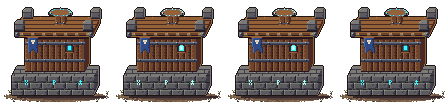
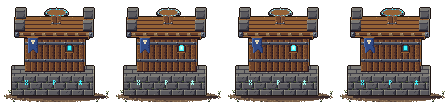
Revisão besta-r3: 1 correção
- #1 ângulo estranho: câmera 3/4 frontal pura (sem obliquidade), sombra nas últimas colunas,
  ameia com topo reto, suporte e arma centralizados; R3 e sprites da Besta nova regerados

diff --git a/tools/pixel-art/escolha-torres.html b/tools/pixel-art/escolha-torres.html
@@ -176,7 +176,7 @@ Para testar no jogo: <code>TOWER_VARIANT</code> em <code>src/config/art.js</code
           </div>
         </div>
 </div>
-<script>const DATA = {"towers":{"besta-a0":{"kind":"besta","name":"Torre de vigia (T19, antes)","base":{"src":"torres/besta-a-antes-base.png","w":80,"h":74,"px":40,"py":74,"frames":1,"fps":6},"piece":{"src":"torres/besta-a-antes-cabeca.png","w":66,"h":66,"px":33,"py":33,"phases":1},"mount":{"x":0,"y":-64},"muzzle":{"x":28,"y":0},"crystal":{"x":-7,"y":0},"shadow":[72,22],"float":0,"rest":-0.35,"windup":-0.85,"throwA":1.05,"crop":{"x":95,"y":46,"w":110,"h":108}},"besta-a-t22":{"kind":"besta","name":"Torre de vigia","base":{"src":"../../public/assets/torre-besta-a-base.png","w":100,"h":98,"px":50,"py":92,"frames":4,"fps":6},"piece":{"src":"../../public/assets/torre-besta-a-cabeca.png","w":84,"h":84,"px":42,"py":42,"phases":3},"mount":{"x":0,"y":-64},"muzzle":{"x":36,"y":0},"crystal":{"x":-10,"y":0},"shadow":[60,16],"float":0,"rest":-0.35,"windup":-0.85,"throwA":1.05,"crop":{"x":95,"y":42,"w":110,"h":112}},"besta-n-t22":{"kind":"besta","name":"Torre de vigia — nova técnica","base":{"src":"../../public/assets/torre-besta-n-base.png","w":112,"h":104,"px":56,"py":96,"frames":4,"fps":5},"piece":{"src":"../../public/assets/torre-besta-n-cabeca.png","w":72,"h":72,"px":36,"py":36,"phases":3},"mount":{"x":4,"y":-86},"muzzle":{"x":31,"y":0},"crystal":{"x":-9,"y":0},"shadow":[60,16],"float":0,"rest":-0.35,"windup":-0.85,"throwA":1.05,"crop":{"x":95,"y":24,"w":110,"h":130}},"besta-a":{"kind":"besta","name":"Torre de vigia","base":{"src":"../../public/assets/torre-besta-a-base.png","w":100,"h":98,"px":50,"py":92,"frames":4,"fps":6},"piece":{"src":"../../public/assets/torre-besta-a-cabeca.png","w":84,"h":84,"px":42,"py":42,"phases":3},"mount":{"x":0,"y":-64},"muzzle":{"x":36,"y":0},"crystal":{"x":-10,"y":0},"shadow":[60,16],"float":0,"rest":-0.35,"windup":-0.85,"throwA":1.05,"crop":{"x":95,"y":42,"w":110,"h":112}},"besta-b":{"kind":"besta","name":"Pedestal rúnico","base":{"src":"../../public/assets/torre-besta-b-base.png","w":76,"h":70,"px":38,"py":70,"frames":1,"fps":6},"piece":{"src":"../../public/assets/torre-besta-b-cabeca.png","w":66,"h":66,"px":33,"py":33,"phases":1},"mount":{"x":0,"y":-60},"muzzle":{"x":27,"y":0},"crystal":{"x":-2,"y":-8},"shadow":[64,20],"float":1,"rest":-0.35,"windup":-0.85,"throwA":1.05,"crop":{"x":95,"y":50,"w":110,"h":104}},"besta-c":{"kind":"besta","name":"Sentinela de aço","base":{"src":"../../public/assets/torre-besta-c-base.png","w":78,"h":58,"px":39,"py":58,"frames":1,"fps":6},"piece":{"src":"../../public/assets/torre-besta-c-cabeca.png","w":66,"h":66,"px":33,"py":33,"phases":1},"mount":{"x":0,"y":-48},"muzzle":{"x":29,"y":0},"crystal":{"x":-9,"y":-4},"shadow":[74,22],"float":0,"rest":-0.35,"windup":-0.85,"throwA":1.05,"crop":{"x":95,"y":62,"w":110,"h":92}},"besta-n":{"kind":"besta","name":"Torre de vigia — nova técnica","base":{"src":"../../public/assets/torre-besta-n-base.png","w":112,"h":104,"px":56,"py":96,"frames":4,"fps":5},"piece":{"src":"../../public/assets/torre-besta-n-cabeca.png","w":72,"h":72,"px":36,"py":36,"phases":3},"mount":{"x":4,"y":-86},"muzzle":{"x":31,"y":0},"crystal":{"x":-9,"y":0},"shadow":[60,16],"float":0,"rest":-0.35,"windup":-0.85,"throwA":1.05,"crop":{"x":95,"y":24,"w":110,"h":130}},"catapulta-a":{"kind":"catapulta","name":"Catapulta de rodas","base":{"src":"../../public/assets/torre-catapulta-a-base.png","w":96,"h":58,"px":48,"py":58,"frames":1,"fps":6},"piece":{"src":"../../public/assets/torre-catapulta-a-braco.png","w":140,"h":140,"px":70,"py":70,"phases":1},"mount":{"x":2,"y":-40},"cup":{"x":0,"y":-56},"orb":{"x":0,"y":-61},"shadow":[92,26],"float":0,"rest":-0.35,"windup":-0.85,"throwA":1.05,"crop":{"x":75,"y":33,"w":150,"h":121}},"catapulta-b":{"kind":"catapulta","name":"Trabuco rúnico","base":{"src":"../../public/assets/torre-catapulta-b-base.png","w":90,"h":82,"px":45,"py":82,"frames":1,"fps":6},"piece":{"src":"../../public/assets/torre-catapulta-b-braco.png","w":150,"h":150,"px":75,"py":75,"phases":1},"mount":{"x":0,"y":-66},"cup":{"x":0,"y":-64},"orb":{"x":0,"y":-69},"shadow":[84,24],"float":0,"rest":-0.35,"windup":-0.85,"throwA":1.05,"crop":{"x":75,"y":0,"w":150,"h":154}},"catapulta-c":{"kind":"catapulta","name":"Morteiro-forja","base":{"src":"../../public/assets/torre-catapulta-c-base.png","w":94,"h":60,"px":47,"py":60,"frames":1,"fps":6},"piece":{"src":"../../public/assets/torre-catapulta-c-braco.png","w":124,"h":124,"px":62,"py":62,"phases":1},"mount":{"x":-6,"y":-40},"cup":{"x":0,"y":-48},"orb":{"x":0,"y":-53},"shadow":[90,26],"float":0,"rest":-0.35,"windup":-0.85,"throwA":1.05,"crop":{"x":75,"y":40,"w":150,"h":114}}},"headAngles":[-1.5707963267948966,-1.3089969389957472,-1.0471975511965976,-0.7853981633974483,-0.5235987755982988,-0.2617993877991494,0,0.2617993877991494,0.5235987755982988,0.7853981633974483,1.0471975511965976,1.3089969389957472,1.5707963267948966],"armAngles":[-0.8726646259971648,-0.6981317007977318,-0.5235987755982988,-0.3490658503988659,-0.17453292519943295,0,0.17453292519943295,0.3490658503988659,0.5235987755982988,0.6981317007977318,0.8726646259971648,1.0471975511965976],"buildFx":{"runes":[0,0.28],"base":[0.22,0.61],"snap":[0.56,0.89],"finale":[0.89,1],"color":4191743,"hologramAlpha":0.6,"runeRadius":64,"runeFlatten":0.42,"runeSpin":3.2,"light":{"radius":170,"intensity":1.6},"scanLag":18,"scanWidth":1.15,"snapLift":26,"squash":0.06,"sparks":8,"flashSize":120},"scene":{"w":300,"h":230,"crop":{"x":330,"y":390},"pathY":170,"orcSpeed":62,"tower":{"x":150,"y":142},"orcIdle":{"x":238},"ground":"../../public/assets/chao-map01.png","orc":{"walk":"../../public/assets/orc-b-walk.png","idle":"../../public/assets/orc-b.png","w":102,"h":83,"px":46,"py":83,"shadow":[42,11]},"decor":[{"file":"decor-a-arvore3.png","x":34,"y":154,"w":80,"h":92,"px":40,"py":92,"shadow":[48,16],"src":"../../public/assets/decor-a-arvore3.png"},{"file":"decor-a-pedraM.png","x":262,"y":138,"w":42,"h":30,"px":21,"py":30,"shadow":[36,12],"src":"../../public/assets/decor-a-pedraM.png"}]}};</script>
+<script>const DATA = {"towers":{"besta-a0":{"kind":"besta","name":"Torre de vigia (T19, antes)","base":{"src":"torres/besta-a-antes-base.png","w":80,"h":74,"px":40,"py":74,"frames":1,"fps":6},"piece":{"src":"torres/besta-a-antes-cabeca.png","w":66,"h":66,"px":33,"py":33,"phases":1},"mount":{"x":0,"y":-64},"muzzle":{"x":28,"y":0},"crystal":{"x":-7,"y":0},"shadow":[72,22],"float":0,"rest":-0.35,"windup":-0.85,"throwA":1.05,"crop":{"x":95,"y":46,"w":110,"h":108}},"besta-a-t22":{"kind":"besta","name":"Torre de vigia","base":{"src":"../../public/assets/torre-besta-a-base.png","w":100,"h":98,"px":50,"py":92,"frames":4,"fps":6},"piece":{"src":"../../public/assets/torre-besta-a-cabeca.png","w":84,"h":84,"px":42,"py":42,"phases":3},"mount":{"x":0,"y":-64},"muzzle":{"x":36,"y":0},"crystal":{"x":-10,"y":0},"shadow":[60,16],"float":0,"rest":-0.35,"windup":-0.85,"throwA":1.05,"crop":{"x":95,"y":42,"w":110,"h":112}},"besta-n-t22":{"kind":"besta","name":"Torre de vigia — nova técnica","base":{"src":"../../public/assets/torre-besta-n-base.png","w":112,"h":104,"px":56,"py":96,"frames":4,"fps":5},"piece":{"src":"../../public/assets/torre-besta-n-cabeca.png","w":72,"h":72,"px":36,"py":36,"phases":3},"mount":{"x":0,"y":-86},"muzzle":{"x":31,"y":0},"crystal":{"x":-9,"y":0},"shadow":[60,16],"float":0,"rest":-0.35,"windup":-0.85,"throwA":1.05,"crop":{"x":95,"y":24,"w":110,"h":130}},"besta-a":{"kind":"besta","name":"Torre de vigia","base":{"src":"../../public/assets/torre-besta-a-base.png","w":100,"h":98,"px":50,"py":92,"frames":4,"fps":6},"piece":{"src":"../../public/assets/torre-besta-a-cabeca.png","w":84,"h":84,"px":42,"py":42,"phases":3},"mount":{"x":0,"y":-64},"muzzle":{"x":36,"y":0},"crystal":{"x":-10,"y":0},"shadow":[60,16],"float":0,"rest":-0.35,"windup":-0.85,"throwA":1.05,"crop":{"x":95,"y":42,"w":110,"h":112}},"besta-b":{"kind":"besta","name":"Pedestal rúnico","base":{"src":"../../public/assets/torre-besta-b-base.png","w":76,"h":70,"px":38,"py":70,"frames":1,"fps":6},"piece":{"src":"../../public/assets/torre-besta-b-cabeca.png","w":66,"h":66,"px":33,"py":33,"phases":1},"mount":{"x":0,"y":-60},"muzzle":{"x":27,"y":0},"crystal":{"x":-2,"y":-8},"shadow":[64,20],"float":1,"rest":-0.35,"windup":-0.85,"throwA":1.05,"crop":{"x":95,"y":50,"w":110,"h":104}},"besta-c":{"kind":"besta","name":"Sentinela de aço","base":{"src":"../../public/assets/torre-besta-c-base.png","w":78,"h":58,"px":39,"py":58,"frames":1,"fps":6},"piece":{"src":"../../public/assets/torre-besta-c-cabeca.png","w":66,"h":66,"px":33,"py":33,"phases":1},"mount":{"x":0,"y":-48},"muzzle":{"x":29,"y":0},"crystal":{"x":-9,"y":-4},"shadow":[74,22],"float":0,"rest":-0.35,"windup":-0.85,"throwA":1.05,"crop":{"x":95,"y":62,"w":110,"h":92}},"besta-n":{"kind":"besta","name":"Torre de vigia — nova técnica","base":{"src":"../../public/assets/torre-besta-n-base.png","w":112,"h":104,"px":56,"py":96,"frames":4,"fps":5},"piece":{"src":"../../public/assets/torre-besta-n-cabeca.png","w":72,"h":72,"px":36,"py":36,"phases":3},"mount":{"x":0,"y":-86},"muzzle":{"x":31,"y":0},"crystal":{"x":-9,"y":0},"shadow":[60,16],"float":0,"rest":-0.35,"windup":-0.85,"throwA":1.05,"crop":{"x":95,"y":24,"w":110,"h":130}},"catapulta-a":{"kind":"catapulta","name":"Catapulta de rodas","base":{"src":"../../public/assets/torre-catapulta-a-base.png","w":96,"h":58,"px":48,"py":58,"frames":1,"fps":6},"piece":{"src":"../../public/assets/torre-catapulta-a-braco.png","w":140,"h":140,"px":70,"py":70,"phases":1},"mount":{"x":2,"y":-40},"cup":{"x":0,"y":-56},"orb":{"x":0,"y":-61},"shadow":[92,26],"float":0,"rest":-0.35,"windup":-0.85,"throwA":1.05,"crop":{"x":75,"y":33,"w":150,"h":121}},"catapulta-b":{"kind":"catapulta","name":"Trabuco rúnico","base":{"src":"../../public/assets/torre-catapulta-b-base.png","w":90,"h":82,"px":45,"py":82,"frames":1,"fps":6},"piece":{"src":"../../public/assets/torre-catapulta-b-braco.png","w":150,"h":150,"px":75,"py":75,"phases":1},"mount":{"x":0,"y":-66},"cup":{"x":0,"y":-64},"orb":{"x":0,"y":-69},"shadow":[84,24],"float":0,"rest":-0.35,"windup":-0.85,"throwA":1.05,"crop":{"x":75,"y":0,"w":150,"h":154}},"catapulta-c":{"kind":"catapulta","name":"Morteiro-forja","base":{"src":"../../public/assets/torre-catapulta-c-base.png","w":94,"h":60,"px":47,"py":60,"frames":1,"fps":6},"piece":{"src":"../../public/assets/torre-catapulta-c-braco.png","w":124,"h":124,"px":62,"py":62,"phases":1},"mount":{"x":-6,"y":-40},"cup":{"x":0,"y":-48},"orb":{"x":0,"y":-53},"shadow":[90,26],"float":0,"rest":-0.35,"windup":-0.85,"throwA":1.05,"crop":{"x":75,"y":40,"w":150,"h":114}}},"headAngles":[-1.5707963267948966,-1.3089969389957472,-1.0471975511965976,-0.7853981633974483,-0.5235987755982988,-0.2617993877991494,0,0.2617993877991494,0.5235987755982988,0.7853981633974483,1.0471975511965976,1.3089969389957472,1.5707963267948966],"armAngles":[-0.8726646259971648,-0.6981317007977318,-0.5235987755982988,-0.3490658503988659,-0.17453292519943295,0,0.17453292519943295,0.3490658503988659,0.5235987755982988,0.6981317007977318,0.8726646259971648,1.0471975511965976],"buildFx":{"runes":[0,0.28],"base":[0.22,0.61],"snap":[0.56,0.89],"finale":[0.89,1],"color":4191743,"hologramAlpha":0.6,"runeRadius":64,"runeFlatten":0.42,"runeSpin":3.2,"light":{"radius":170,"intensity":1.6},"scanLag":18,"scanWidth":1.15,"snapLift":26,"squash":0.06,"sparks":8,"flashSize":120},"scene":{"w":300,"h":230,"crop":{"x":330,"y":390},"pathY":170,"orcSpeed":62,"tower":{"x":150,"y":142},"orcIdle":{"x":238},"ground":"../../public/assets/chao-map01.png","orc":{"walk":"../../public/assets/orc-b-walk.png","idle":"../../public/assets/orc-b.png","w":102,"h":83,"px":46,"py":83,"shadow":[42,11]},"decor":[{"file":"decor-a-arvore3.png","x":34,"y":154,"w":80,"h":92,"px":40,"py":92,"shadow":[48,16],"src":"../../public/assets/decor-a-arvore3.png"},{"file":"decor-a-pedraM.png","x":262,"y":138,"w":42,"h":30,"px":21,"py":30,"shadow":[36,12],"src":"../../public/assets/decor-a-pedraM.png"}]}};</script>
 <script>// Script da página escolha-torres.html (T19), embutido pelo gerador. Recebe DATA (torres, ângulos, cena).
 // Cada versão tem 4 canvases: parado 1×, animado 1× (materialização → mira/recuo ou arremesso), animado 4× e parado 4×.
 // A cena é desenhada em 1× num canvas fora da tela e copiada ampliada (pixels inteiros, sem suavização).

diff --git a/tools/pixel-art/sprites/torres/besta-nova.js b/tools/pixel-art/sprites/torres/besta-nova.js
@@ -1,9 +1,11 @@
 // Besta Laser — nova técnica (T22): torre de vigia composta com peças desenhadas à mão (lib/materiais) numa Grade,
 // em 4 etapas (1 blocagem → 2 luz e volume → 3 materiais e detalhes → 4 limpeza) + conceito (3 silhuetas).
 //
-// Coordenadas: (0, 0) = ponto de chão da base (y negativo para cima). Câmera 3/4 de FRENTE com leve obliquidade:
-// o topo das caixas recua para cima e meio pixel para a direita por pixel de profundidade, o que mostra os TOPOS
-// (claros) e uma lateral direita estreita (escura). Luz do canto superior esquerdo.
+// Coordenadas: (0, 0) = ponto de chão da base (y negativo para cima). Câmera 3/4 de FRENTE pura (igual ao orc e às
+// árvores): o topo das caixas recua reto para cima (SKEW = 0) e mostra os TOPOS claros; o "lado da sombra" é o
+// escurecimento das últimas colunas da frente (Grade.shadeRight). Revisão da besta-r3 ("ângulo meio estranho"): a
+// versão oblíqua (topo deslocado para a direita + lateral) parecia torta ao lado dos personagens frontais.
+const SKEW = 0;
 // Encaixes e quadros em src/config/towerArt.js (TOWER_ART.laserCrossbow.n).
 
 import { Grade } from '../../lib/Grade.js';
@@ -30,8 +32,8 @@ export const GEO = {
     janela: { x: 9, y: -51 },
     estandarte: { x: -29, y: -58 },
     runas: [{ x: -31, y: -15 }, { x: -3, y: -15 }, { x: 23, y: -15 }],
-    pedestal: { x: -1, w: 10, yb: -70, h: 9 },   // R3: pedestal mais alto (a arma não cobre mais o suporte)
-    suporte: { x: 4, y: -83, rx: 11, ry: 4 }
+    pedestal: { x: -5, w: 10, yb: -70, h: 9 },   // R3: pedestal mais alto (a arma não cobre mais o suporte)
+    suporte: { x: 0, y: -83, rx: 11, ry: 4 }
 };
 
 // quadros do idle: nível das runas, janela forte/fraca, estandarte (balanço de 1 px)
@@ -91,7 +93,7 @@ export function base (frame = 0, stage = 4) {
         top: face('pedra', 'top', { top: g.tile(pedraTopo, P.x0 + 3, P.yt - P.d, { offsetRows: 6, pick: (c, r) => Math.floor(hash(c, r, 5) * 2) }) }),
         front: face('pedra', 'front', { front: g.tile(pedraFrente, P.x0, P.yt, { offsetRows: 6, pick: (c, r) => Math.floor(hash(c, r, 3) * 3) }) }),
         side: face('pedra', 'side', { side: g.tile(pedraLado, P.x1, P.yt) })
-    });
+    }, SKEW);
     if (mat) {
         for (const [i, r] of G.runas.entries()) { g.stamp(runas[i % runas.length][idle.runa], r.x, r.y); }
     }
@@ -102,7 +104,7 @@ export function base (frame = 0, stage = 4) {
         top: face('madeira', 'top'),
         front: face('madeira', 'front', { front: g.tile(tabuaV, C.x0, C.yt) }),
         side: face('madeira', 'side')
-    });
+    }, SKEW);
     if (lit) {
         // oclusão: a parede "entra" na pedra (linha escura no pé) e fica sob a sombra do piso (2 linhas no topo)
         g.fill({ rect: [C.x0, C.yb - 1, C.x1 - C.x0, 1] }, flat('madeira', 0));
@@ -125,7 +127,7 @@ export function base (frame = 0, stage = 4) {
         top: face('madeira', 'top', { top: g.tile(tabuaTopo, F.x0, F.yt - F.d) }),
         front: face('madeira', 'front', { front: g.tile(tabuaH, F.x0, F.yt + 1) }),
         side: face('madeira', 'side')
-    });
+    }, SKEW);
     if (mat) {
         for (let x = F.x0 + 5; x < F.x1 - 6; x += 11) { g.stamp(pontaTabua, x, F.yt + 2); }
         g.stamp(cantoneira, F.x0, F.yt + 1);
@@ -133,11 +135,11 @@ export function base (frame = 0, stage = 4) {
     }
 
     // --- ameias de pedra nos cantos (as de trás primeiro)
-    const s = Math.round(F.d / 2);
+    const s = Math.round(F.d * SKEW);
     const merlons = [[F.x0 + s + 1, F.yt - F.d + 2], [F.x1 - 9 + s, F.yt - F.d + 2], [F.x0, F.yt], [F.x1 - 10, F.yt]];
     for (const [x, yBottom] of merlons) {
         if (mat) { g.stamp(ameia, x, yBottom - 11); } else {
-            g.box3q(x, x + 8, yBottom, yBottom - 7, 4, { top: face('pedra', 'top'), front: face('pedra', 'front'), side: face('pedra', 'side') });
+            g.box3q(x, x + 8, yBottom, yBottom - 7, 4, { top: face('pedra', 'top'), front: face('pedra', 'front'), side: face('pedra', 'side') }, SKEW);
         }
     }
 
@@ -145,7 +147,7 @@ export function base (frame = 0, stage = 4) {
     const Pd = G.pedestal;
     g.box3q(Pd.x, Pd.x + Pd.w, Pd.yb, Pd.yb - Pd.h, 4, {
         top: face('madeira', 'top'), front: face('madeira', 'front', { front: g.tile(poste, Pd.x, Pd.yb - Pd.h) }), side: face('madeira', 'side')
-    });
+    }, SKEW);
     if (mat) { g.fill({ rect: [Pd.x, Pd.yb - 2, Pd.w, 1] }, flat('aco', 2)); g.stamp(rebite, Pd.x + 1, Pd.yb - 3); g.stamp(rebite, Pd.x + Pd.w - 2, Pd.yb - 3); }
     const S = G.suporte;
     g.fill({ rect: [S.x - S.rx, S.y, S.rx * 2 + 1, 3] }, lit ? flat('aco', 1) : flat('aco', 2));
@@ -164,6 +166,8 @@ export function base (frame = 0, stage = 4) {
         g.fill({ rect: [G.estandarte.x + 1, G.estandarte.y + 1, 10, 14] }, flat('azul', lit ? 2 : 2));
     }
 
+    // lado da sombra: últimas colunas da frente um tom abaixo (sem lateral oblíqua)
+    if (lit) { g.shadeRight(P.x1, P.yt, P.yb); g.shadeRight(C.x1, C.yt + 3, C.yb, 3); g.shadeRight(F.x1, F.yt, F.yb, 2); }
     if (stage >= 4) { g.cleanup(); }
     if (lit) { g.rim(); }
     g.outline();

diff --git a/tools/pixel-art/lib/Grade.js b/tools/pixel-art/lib/Grade.js
@@ -88,17 +88,30 @@ export class Grade {
         };
     }
 
-    // Caixa em 3/4 de frente: frente de (x0..x1) × (yb..yt), profundidade d (topo recua d px para cima e d/2 para a
-    // direita). faces = { front, top, side } pintores. Devolve os polígonos das faces.
-    box3q (x0, x1, yb, yt, d, faces) {
-        const s = Math.round(d / 2);
+    // Caixa em 3/4 de frente: frente de (x0..x1) × (yb..yt), profundidade d. faces = { front, top, side } pintores.
+    // skew = quanto o topo anda para a direita por px de profundidade (padrão 0.5 = oblíqua com lateral visível;
+    // 0 = 3/4 frontal pura, igual ao orc e às árvores — o topo recua reto para cima e não há lateral).
+    box3q (x0, x1, yb, yt, d, faces, skew = 0.5) {
+        const s = Math.round(d * skew);
         const front = { rect: [x0, yt, x1 - x0, yb - yt] };
         const top = { poly: [[x0, yt], [x1, yt], [x1 + s, yt - d], [x0 + s, yt - d]] };
         const side = { poly: [[x1, yb], [x1, yt], [x1 + s, yt - d], [x1 + s, yb - d]] };
-        if (faces.side) { this.fill(side, faces.side); }
+        if (faces.side && s > 0) { this.fill(side, faces.side); }
         if (faces.top) { this.fill(top, faces.top); }
         if (faces.front) { this.fill(front, faces.front); }
         return { front, top, side, s };
+    }
+
+    // Escurece em 1 tom as últimas `n` colunas de uma face (lado da sombra, com luz do canto superior esquerdo).
+    shadeRight (x1, yt, yb, n = 3) {
+        for (let y = yt; y < yb; y++) {
+            for (let k = 1; k <= n; k++) {
+                const c = this.get(x1 - k, y);
+                if (!c || c.e || c.k || c.m === OUTLINE_M) { continue; }
+                c.t = Math.max(0, c.t - (k <= Math.ceil(n / 2) ? 1 : 0) - (k === 1 ? 1 : 0));
+            }
+        }
+        return this;
     }
 
     filled (X, Y) { return X >= 0 && Y >= 0 && X < this.w && Y < this.h && !!this.cells[Y * this.w + X]; }

diff --git a/src/config/towerArt.js b/src/config/towerArt.js
@@ -69,7 +69,7 @@ export const TOWER_ART = {
             note: 'T22: composta com peças desenhadas à mão (lib/materiais) em 4 etapas; pedra com rejunte, musgo e runas, corpo de tábuas com postes e cintas, piso com ameias, estandarte azul, janela ciano, suporte com anel rúnico.',
             base: { frame: [112, 104], pivot: [56, 96], frames: 4, fps: 5 },
             head: { frame: [72, 72], pivot: [36, 36], angles: HEAD_ANGLES, phases: 3 },
-            headMount: { x: 4, y: -86 }, muzzle: { x: 31, y: 0 }, crystal: { x: -9, y: 0 },
+            headMount: { x: 0, y: -86 }, muzzle: { x: 31, y: 0 }, crystal: { x: -9, y: 0 },
             shadow: [60, 16],
             upgrades: {
                 3: 'Rajada: segundo arco sobre o suporte; Perfurante: ponta de arpão e cinta dupla na coronha; Sentinela: luneta e bandeirola no suporte',

diff --git a/tools/pixel-art/lib/materiais/index.js b/tools/pixel-art/lib/materiais/index.js
@@ -77,18 +77,18 @@ export const pedraLado = [
     ], key: key('pedra') }
 ];
 
-// Ameia de pedra (merlão) com o topo visível: 10×11.
+// Ameia de pedra (merlão) com o topo visível, câmera 3/4 frontal (topo reto sobre a frente — revisão da besta-r3): 10×11.
 export const ameia = { rows: [
-    '..bbbbbbd.',
-    '.abbbbbbdd',
-    'abbbbbbbdd',
+    'abbbbbbbbd',
+    'bbbbbbbbbd',
     'bbbbbbbbdd',
     'dddddddddd',
-    'bcccccccdd',
+    'bccccccccd',
+    'bccccccccd',
+    'bccdccccdd',
     'bcccccccde',
-    'bccdcccdde',
-    'bcccccccde',
-    'cddddddddE',
+    'bccccccdde',
+    'cdddddddde',
     'eeeeeeeeee'
 ], key: key('pedra', MUSGO) };
 

diff --git a/tools/pixel-art/rodadas/besta-autocritica.md b/tools/pixel-art/rodadas/besta-autocritica.md
@@ -35,3 +35,6 @@ Problemas que ainda vejo — candidatos para a primeira revisão na ferramenta (
 3. O emblema do estandarte (3×4) é legível ampliado, mas no tamanho real vira uma mancha clara.
 4. O topo da pedra quase não aparece (o corpo cobre a maior parte).
 5. A lateral direita do piso e do corpo é estreita (4–7 px); pode ganhar 1–2 px para reforçar o volume.
+
+## Revisão do diretor de arte (fluxo da T23)
+- **besta-r3 #1** ("ângulo meio estranho", forma/silhueta, alta) → câmera 3/4 frontal pura: `SKEW = 0` em `besta-nova.js` (topo recua reto, sem lateral oblíqua), lado da sombra por `Grade.shadeRight`, ameia com topo reto, suporte e arma centralizados (`headMount` x 0). A R3 foi regerada; a versão revisada está em `tools/revisor/revisoes/besta-r3.b70b82e7.png`.
